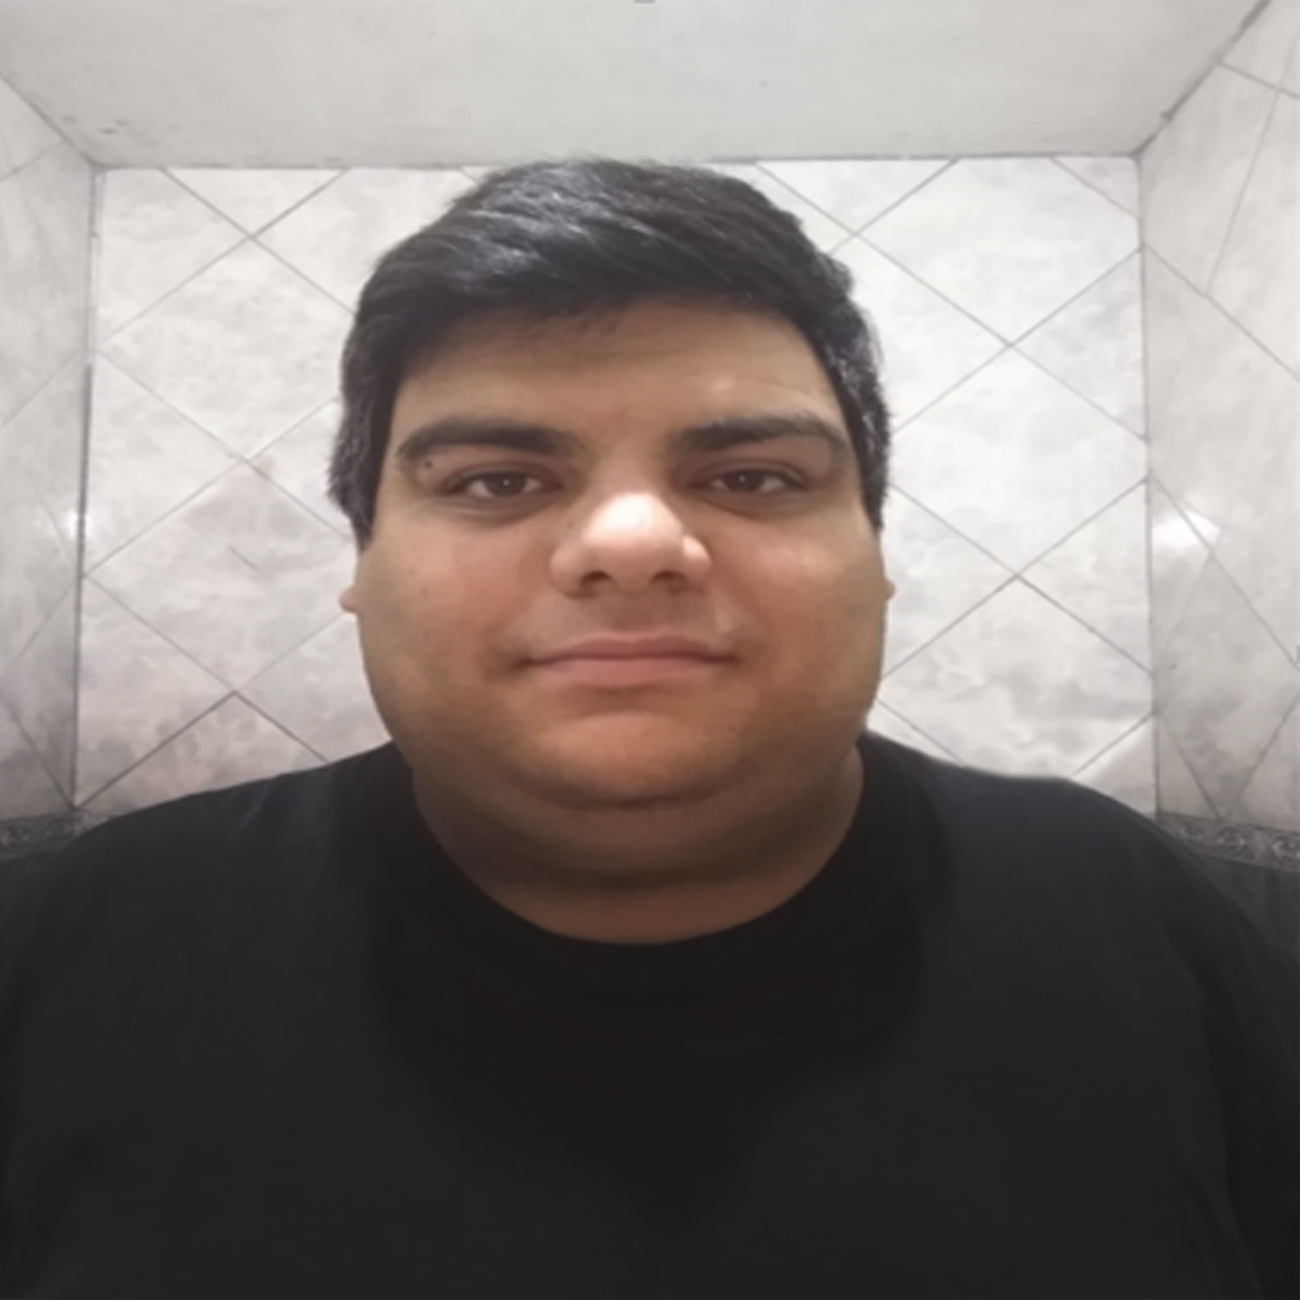
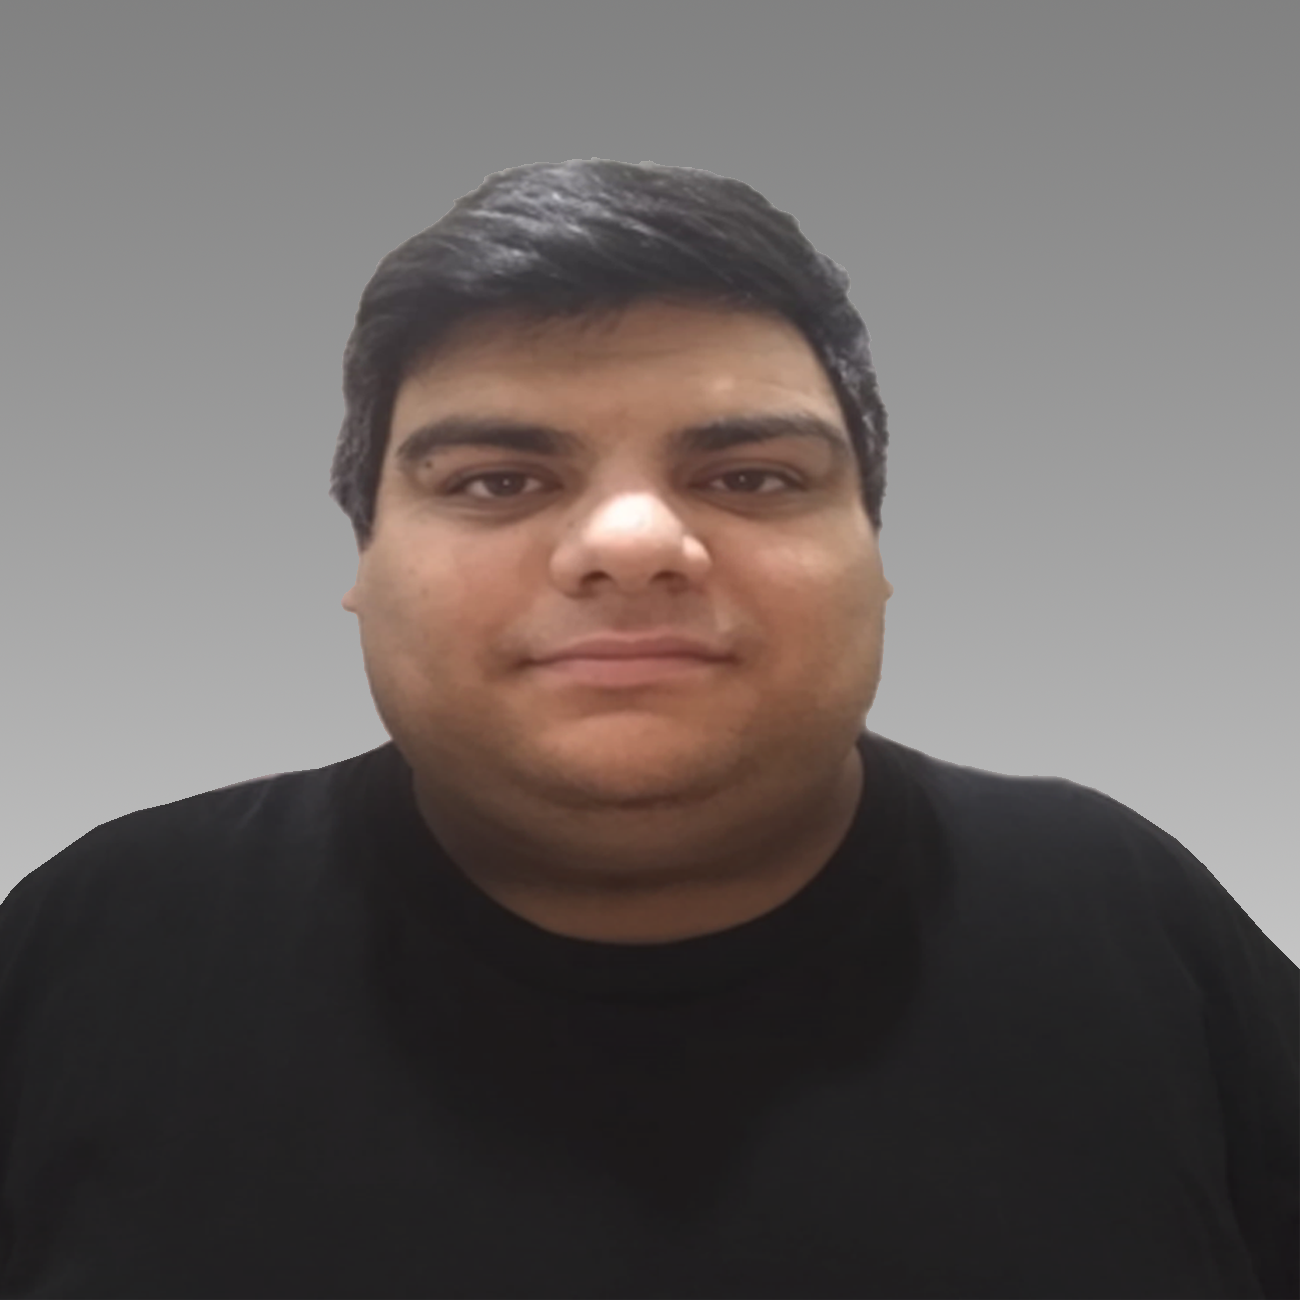
Fix background PerfilPic

diff --git a/index.html b/index.html
@@ -35,7 +35,7 @@
     <section id="inicio" class="inicio">
         <div class="contenido-banner">
             <div class="contenedor-img">
-                <img src="images/Perfil/foto.png" alt="">
+                <img src="images/Perfil/foto.png" alt="foto perfil Barrozo Martin">
             </div>
             <h1>BARROZO MARTIN</h1>
             <h2>Programador Frontend</h2>
